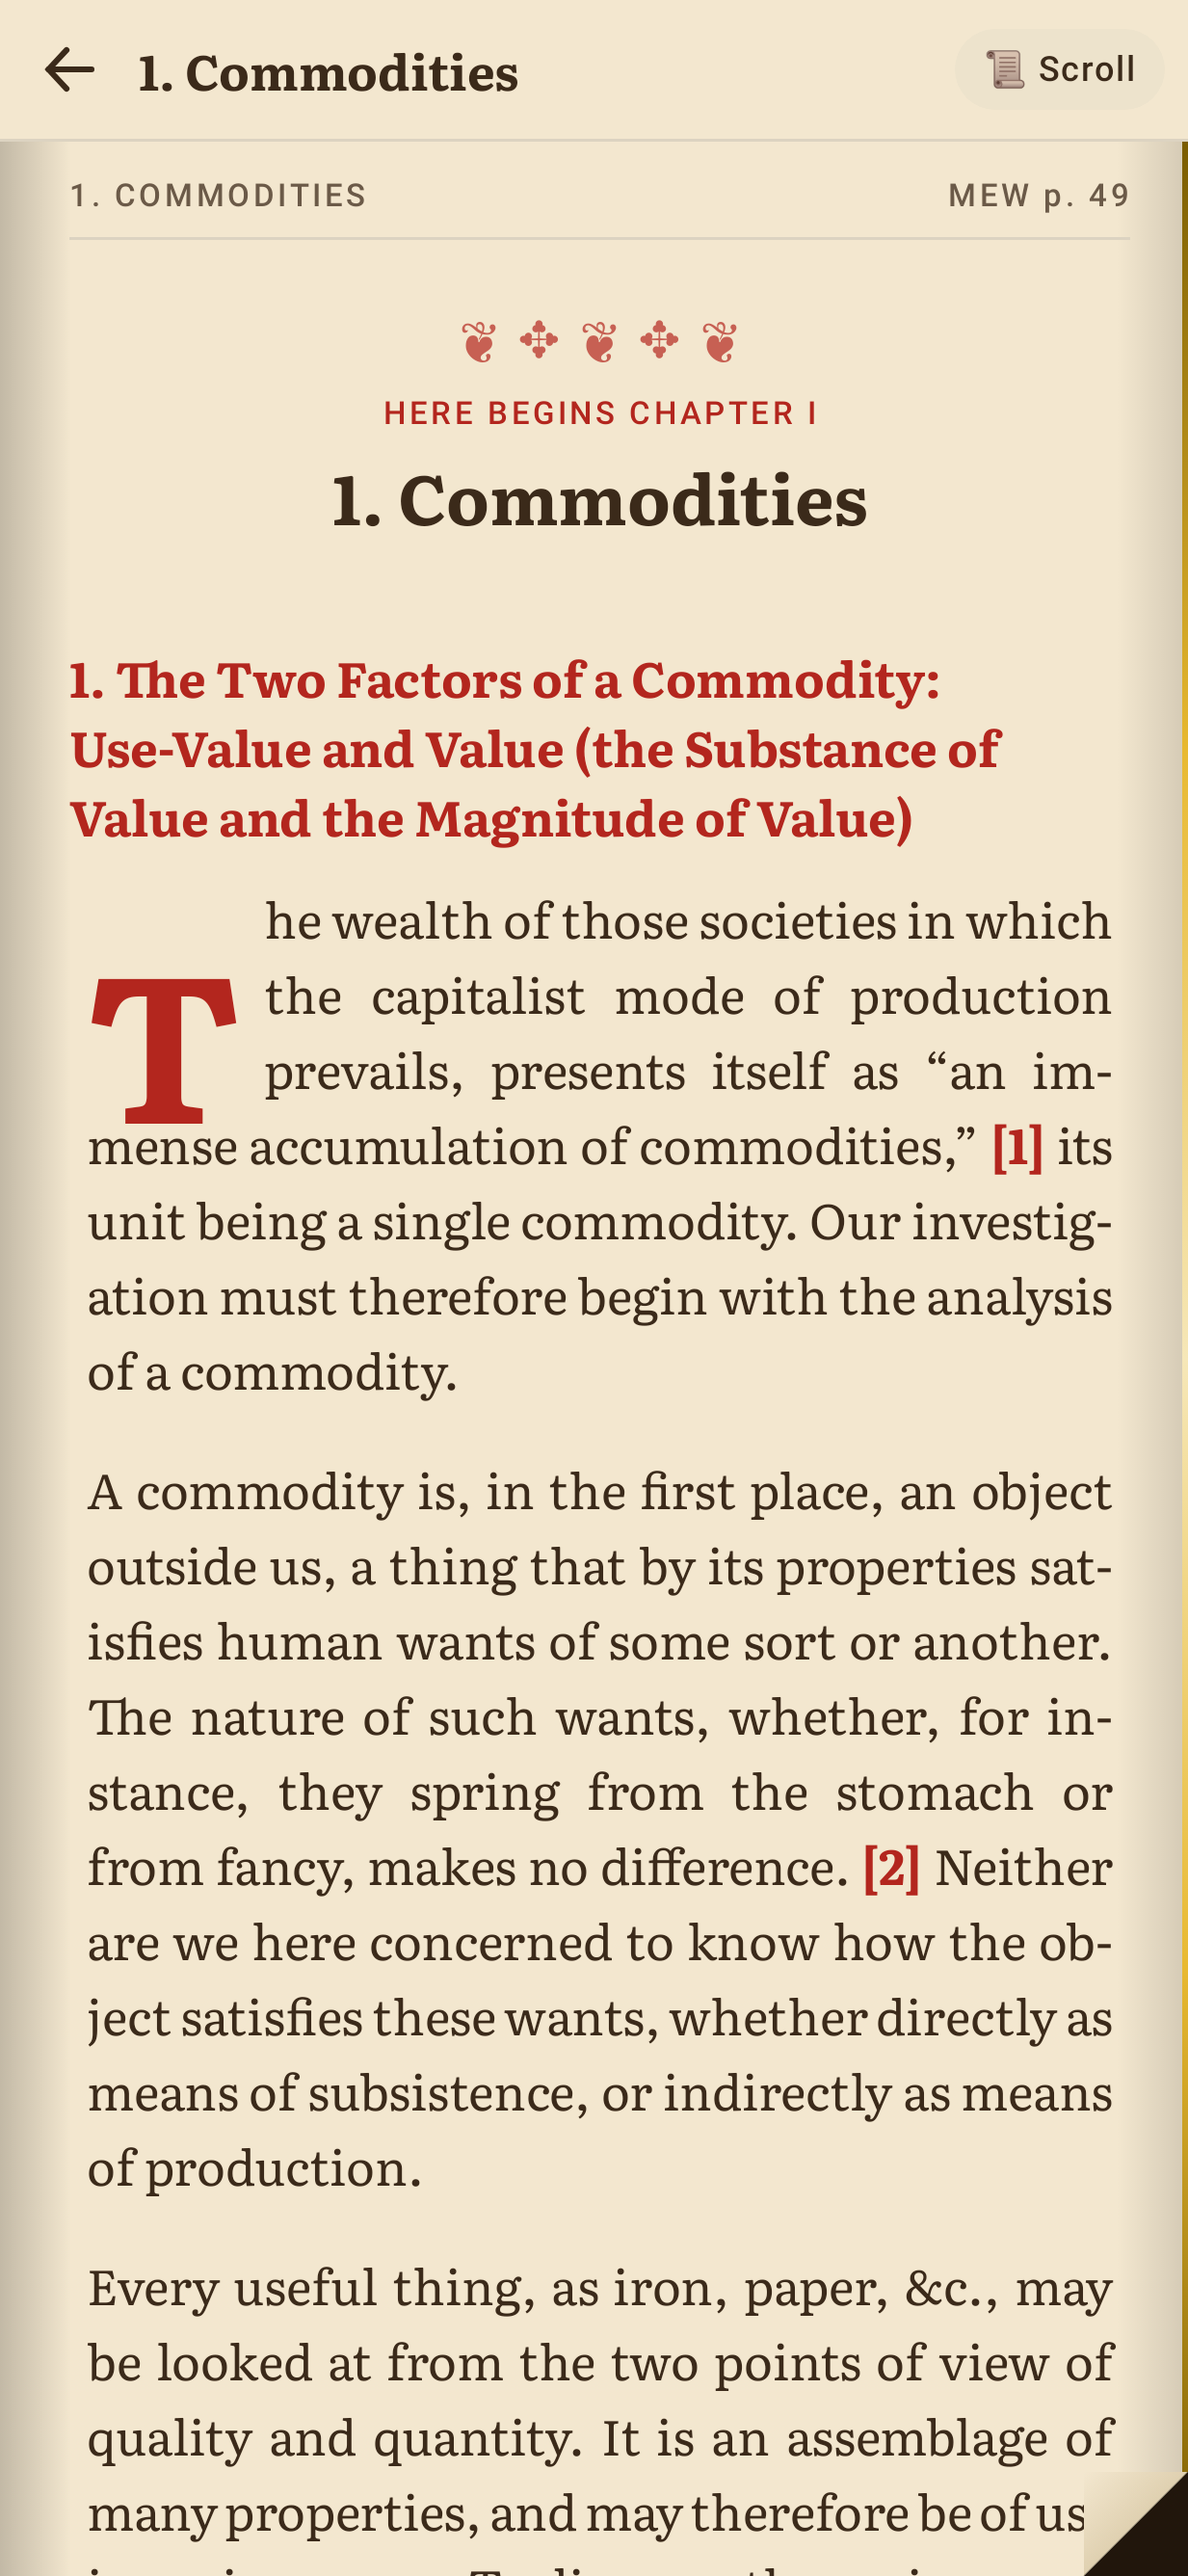
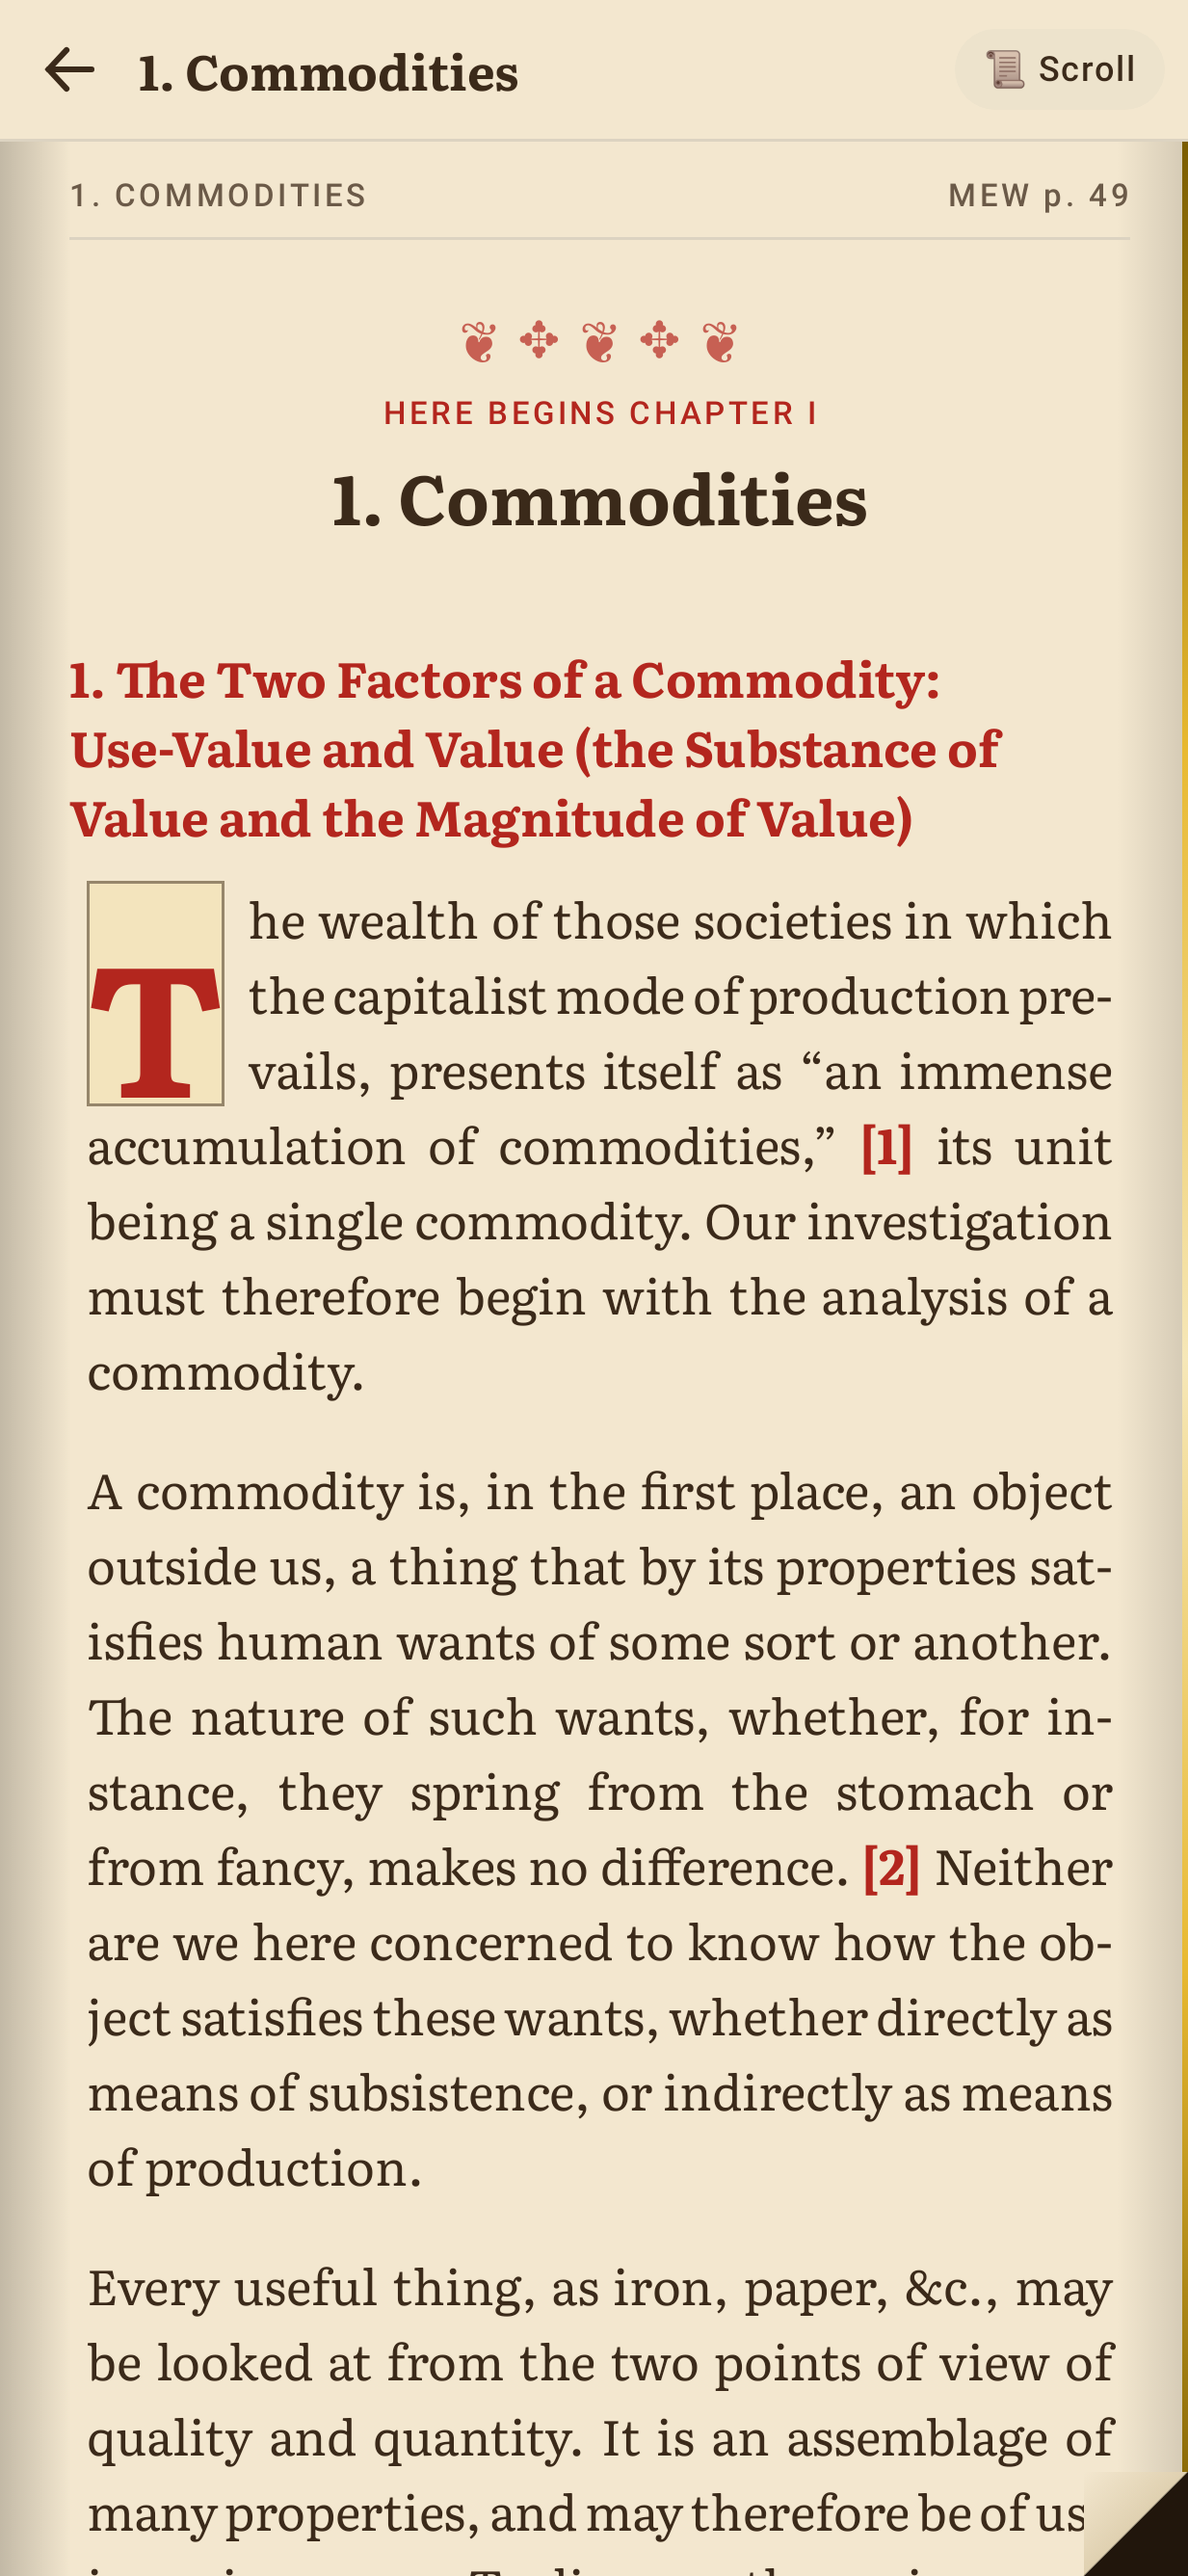
📜 C4 rest (D-053 b): illuminated chapter initial (red cap on gold square, ink hairline) · 2-line red section initials (📖 + 📜) · red ¶ starts each paragraph i 📜 · DropCapText(lines)

Changed region(s): [[0.0616, 0.3416, 0.9246, 0.5589]]

diff --git a/android/app/src/main/java/de/strix/marxversion/ui/VerseView.kt b/android/app/src/main/java/de/strix/marxversion/ui/VerseView.kt
@@ -66,6 +66,7 @@ import androidx.compose.ui.platform.LocalContext
 import androidx.compose.ui.res.painterResource
 import androidx.compose.ui.text.LinkAnnotation
 import androidx.compose.ui.text.SpanStyle
+import androidx.compose.ui.text.withStyle
 import androidx.compose.ui.text.TextLinkStyles
 import androidx.compose.ui.text.buildAnnotatedString
 import androidx.compose.ui.text.font.FontFamily
@@ -258,12 +259,15 @@ private fun NoteBubble(modifier: Modifier = Modifier, at: Long? = null, onEdit: 
  * not a letter (quote mark, "[") ➡ plain txt
  */
 @Composable
-private fun DropCapText(t: AnnotatedString, style: TextStyle) {
+private fun DropCapText(t: AnnotatedString, style: TextStyle, lines: Int = 3) {
+    // C4 (D-053 b): 3 lines = chapter's illuminated initial (red on a gold square, ink hairline) · 2 lines = section initial, no box
     val first = t.text.indexOfFirst { !it.isWhitespace() }
     if (first < 0 || !t.text[first].isLetter() || t.length < first + 2) { Text(t, style = style); return }
     val cap = t.text[first].toString()
     val rest = t.subSequence(first + 1, t.length)
-    val capStyle = style.copy(color = Ds.red, fontWeight = FontWeight.Bold, fontSize = style.lineHeight * 2.75f, lineHeight = style.lineHeight * 3,
+    val illum = lines >= 3
+    val capStyle = style.copy(color = Ds.red, fontWeight = FontWeight.Bold, fontSize = style.lineHeight * (lines - (if (illum) .55f else .25f)),
+        lineHeight = style.lineHeight * lines,
         lineHeightStyle = LineHeightStyle(LineHeightStyle.Alignment.Center, LineHeightStyle.Trim.Both))
     val measurer = rememberTextMeasurer()
     val density = LocalDensity.current
@@ -272,7 +276,7 @@ private fun DropCapText(t: AnnotatedString, style: TextStyle) {
         val narrow = (constraints.maxWidth - capW).coerceAtLeast(1)
         val split = remember(rest, style, narrow) {
             val l = measurer.measure(rest, style, constraints = Constraints(maxWidth = narrow))
-            if (l.lineCount <= 3) rest.length else l.getLineEnd(2)
+            if (l.lineCount <= lines) rest.length else l.getLineEnd(lines - 1)
         }
         val head = rest.subSequence(0, split)
         val tailStart = (split until rest.length).firstOrNull { !rest.text[it].isWhitespace() } ?: rest.length
@@ -280,11 +284,14 @@ private fun DropCapText(t: AnnotatedString, style: TextStyle) {
             // TalkBack: 1 word, not "T · he wealth"
             Row(Modifier.clearAndSetSemantics { text = AnnotatedString(cap + head.text) }) {
                 // box = exactly 3 lines (glyph may overhang) ➡ line 4 follows at th normal leading, no gap
-                Text(cap, style = capStyle, modifier = Modifier.width(with(density) { capW.toDp() })
-                    .height(with(density) { (style.lineHeight * 3).toDp() }).wrapContentHeight(Alignment.Top, unbounded = true))
+                Text(cap, style = capStyle, textAlign = androidx.compose.ui.text.style.TextAlign.Center,
+                    modifier = Modifier.width(with(density) { capW.toDp() })
+                    .height(with(density) { (style.lineHeight * lines).toDp() })
+                    .then(if (illum) Modifier.padding(end = Space.s).background(Ds.goldTint).border(1.dp, Ds.ink.copy(alpha = .5f)) else Modifier)
+                    .wrapContentHeight(Alignment.Top, unbounded = true))
                 // D-058 justify: th WHOLE ¶ clipped 2 3 lines (not `head`) ➡ line 3 isn't a last line ➡ stays justified +
                 //   keeps its hyphen ("im-" | "mense" below) · same style + width as th measure ➡ same breaks
-                Text(rest, style = style, maxLines = 3, overflow = androidx.compose.ui.text.style.TextOverflow.Clip,
+                Text(rest, style = style, maxLines = lines, overflow = androidx.compose.ui.text.style.TextOverflow.Clip,
                     modifier = Modifier.weight(1f))
             }
             if (tailStart < rest.length) Text(rest.subSequence(tailStart, rest.length), style = style)
@@ -305,6 +312,9 @@ private fun DropCapText(t: AnnotatedString, style: TextStyle) {
 fun VerseView(
     vm: AppVm, v: Verse, speaker: Speaker? = null, showActions: Boolean = true, flash: Boolean = false, preview: Boolean = false,
     dropCap: Boolean = false, showRef: Boolean = true,
+    sectionCap: Boolean = false,   // C4: section's 1st passage = 2-line red initial
+    pilcrow: Boolean = false,      // C4: 📜 scroll = small red ¶ starts th paragraph
+
 ) {
     val mark by vm.mark(v.id).collectAsStateWithLifecycle(null)
     val settings by vm.settings.collectAsStateWithLifecycle()
@@ -383,7 +393,9 @@ fun VerseView(
                 Modifier.size(16.dp), tint = Ds.goldDeep)
         }
         if (fallbackNote.isNotBlank()) Text(fallbackNote, style = MaterialTheme.typography.bodyMedium, color = Ds.inkMuted)
+        val capped = (dropCap || sectionCap) && cut == null
         val annotated = buildAnnotatedString {
+            if (pilcrow && !capped) withStyle(SpanStyle(color = Ds.red, fontWeight = FontWeight.Bold)) { append("¶ ") }
             var last = 0
             Regex("\\[(\\d+[a-z]?)]").findAll(txt).forEach { m ->
                 append(txt.substring(last, m.range.first))
@@ -399,7 +411,7 @@ fun VerseView(
         //   + localeList = shown lang ➡ hyphens follow DE / EN / … rules, not th fon's (D-058)
         val body = OmmType.bookBody.let { it.copy(color = Ds.ink, fontSize = it.fontSize * scale, lineHeight = it.lineHeight * scale,
             localeList = androidx.compose.ui.text.intl.LocaleList(LocalLang.current.locale.toLanguageTag())) }
-        if (dropCap && cut == null) DropCapText(annotated, body) else Text(annotated, style = body)
+        if (capped) DropCapText(annotated, body, if (dropCap) 3 else 2) else Text(annotated, style = body)
         if (cut != null) MoreChip(tr("weiterlesen · noch ~%d Min.", "read more · ~%d min left").f(readMinutes(fullTxt.drop(cut.length))),
             { expanded = true }, Modifier.padding(top = Space.xs))
         // ✍ margin note: shown inline as a NoteBubble · tap it (or Notiz) = edit right here, same bubble, no popup

diff --git a/android/app/src/main/java/de/strix/marxversion/ui/Feed.kt b/android/app/src/main/java/de/strix/marxversion/ui/Feed.kt
@@ -70,7 +70,8 @@ fun ScrollBook(vm: AppVm, start: Int, speaker: Speaker, modifier: Modifier = Mod
                 }
                 if (v.kap == prev?.kap && v.page != null && v.page != prev.page) PageBreak(v.page)
                 if (v.secTitle.isNotBlank() && v.sec != prev?.sec) SectionTitle(secTitle(v))
-                VerseView(vm, v, speaker, showRef = false, dropCap = v.kap != prev?.kap)
+                VerseView(vm, v, speaker, showRef = false, dropCap = v.kap != prev?.kap,
+                    sectionCap = v.secTitle.isNotBlank() && v.sec != prev?.sec, pilcrow = true)
                 Gap(6)
                 if (i == verses.lastIndex) Text(tr("🏁 Das war Band 1. Ganz. Respekt.", "🏁 That was volume 1. All of it. Respect."),
                     textAlign = TextAlign.Center, modifier = Modifier.fillMaxWidth().padding(vertical = 16.dp))

diff --git a/android/app/src/main/java/de/strix/marxversion/ui/ReadScreen.kt b/android/app/src/main/java/de/strix/marxversion/ui/ReadScreen.kt
@@ -517,7 +517,8 @@ private fun Page(vm: AppVm, p: BookPage, speaker: Speaker, i: Int, n: Int, modif
                     if (prev != null) Ornament()
                     SectionTitle(secTitle(v))
                 }
-                VerseView(vm, v, speaker, flash = v.id == flashId, dropCap = firstOfChapter && k == 0, showRef = false)
+                VerseView(vm, v, speaker, flash = v.id == flashId, dropCap = firstOfChapter && k == 0, showRef = false,
+                    sectionCap = v.secTitle.isNotBlank() && v.sec != prev?.sec)
                 Gap(4)
             }
             // QA r4: no share pills (r3) + no "Mitreden" btn down here = pure Marx page · writing = tap a passage ➡ ✍ Notiz
